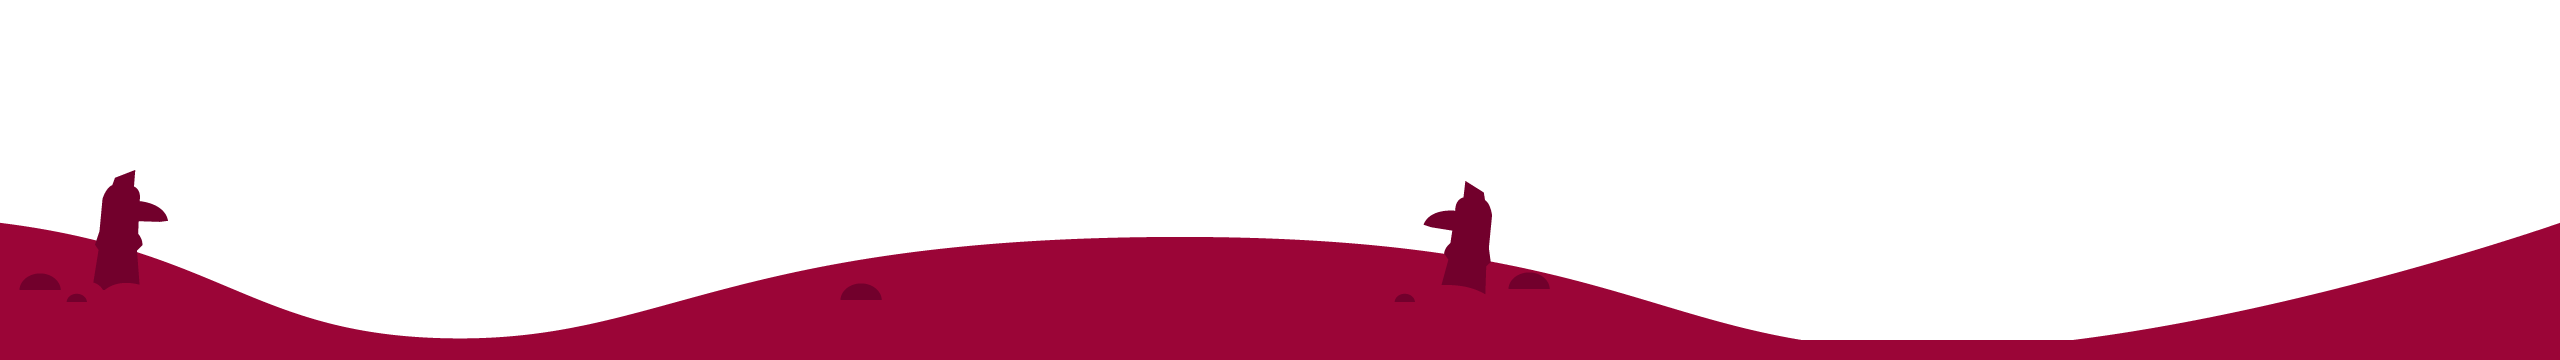
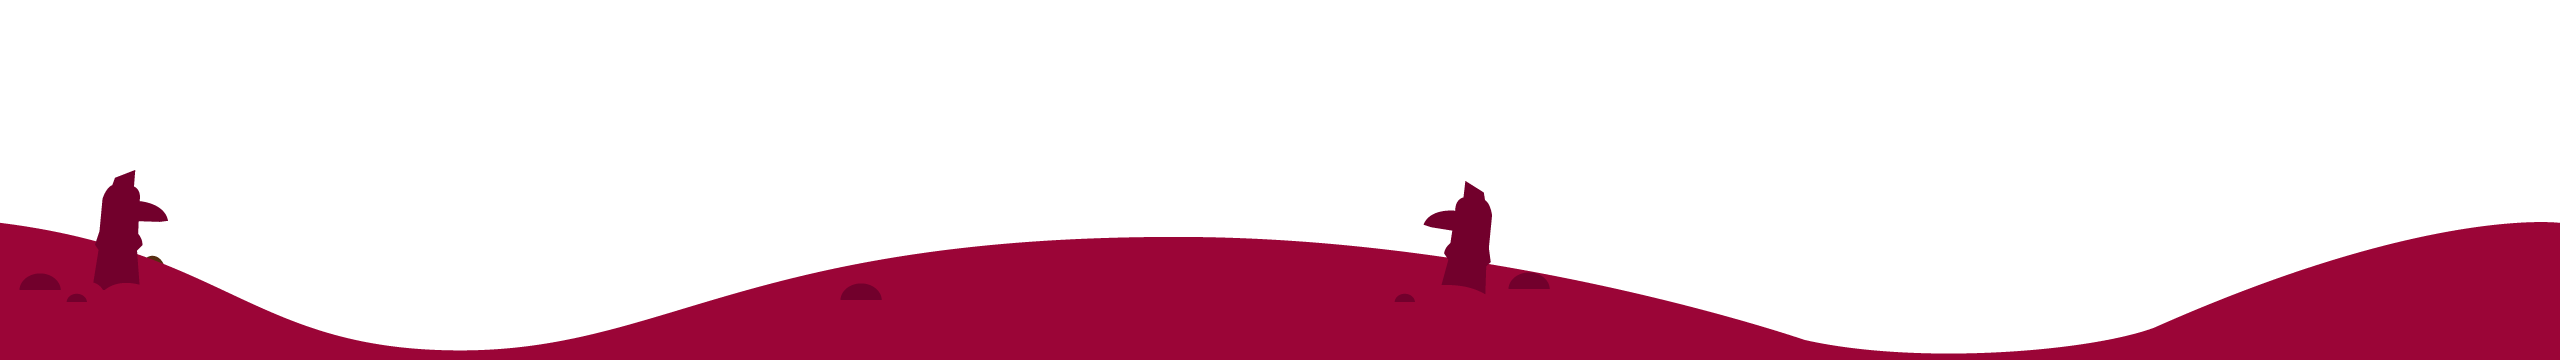
Polished object spawner

diff --git a/stomp/src/js/game/objects/background/BackgroundHandler.js b/stomp/src/js/game/objects/background/BackgroundHandler.js
@@ -30,18 +30,18 @@ BackgroundHandler.prototype.initialize = function()
 BackgroundHandler.prototype.switchToTheme = function(theme, instant)
 {
     var layers = [];
-    layers.push(new BackgroundLayer(theme.layers[0], 1.0 / 5 * theme.moveSpeed));
-    layers.push(new BackgroundLayer(theme.layers[1], 2.5 / 5 * theme.moveSpeed));
-    layers.push(new BackgroundLayer(theme.layers[2], theme.moveSpeed));
+    layers.push(new BackgroundLayer(theme.layers[0], 0.25));
+    layers.push(new BackgroundLayer(theme.layers[1], 0.5));
+    layers.push(new BackgroundLayer(theme.layers[2], 1.0));
 
-    for(var i = 0; i < this.layers.length; i++)
+    for(var i = 0; i < layers.length; i++)
     {
-        this.layers[i].speed = layers[i].speed;
+        layers[i].x -= this.x;
+        layers[i].backgroundHandler = this;
     }
 
     this.nextLayerSwitch = theme.switchAtScore;
-
-    this.world.objectHandler.moveSpeed = theme.moveSpeed;
+    this.world.objectHandler.gotoSpeed = theme.moveSpeed;
 
     if(instant == true)
     {
@@ -51,11 +51,6 @@ BackgroundHandler.prototype.switchToTheme = function(theme, instant)
     {
         this.switchLayersX = Align.width + 50;
         this.switchingLayers = true;
-
-        for(var i = 0; i < layers.length; i++)
-        {
-            layers[i].x -= this.x;
-        }
 
         this.switchLayers = layers;
     }
@@ -123,7 +118,7 @@ BackgroundHandler.prototype.onPlayerDead = function()
     if(!this.backgroundColor.manualOverride)
     {
         this.timer = 0;
-        if(this.fails < 7)
+        if(this.fails < 3)
         {
             this.fails++;
             this.checkBackground();
@@ -151,16 +146,12 @@ BackgroundHandler.prototype.checkBackground = function()
     switch(this.fails)
     {
         case 0:
-        case 1:
             this.backgroundColor.greenLayer();
             break;
-        case 2:
-        case 3:
-        case 4:
+        case 1:
             this.backgroundColor.orangeLayer();
             break;
-        case 5:
-        case 6:
+        case 2:
             this.backgroundColor.redLayer();
             break;
     }

diff --git a/stomp/src/js/game/objects/ObstacleSpawner.js b/stomp/src/js/game/objects/ObstacleSpawner.js
@@ -5,7 +5,7 @@
 ObstacleSpawner = function()
 {
     this.curTick = 0;
-    this.nextSpawn = 100 + parseInt(Math.random() * 100);
+    this.nextSpawn = 0;
 };
 
 ObstacleSpawner.prototype.initialize = function()
@@ -16,16 +16,20 @@ ObstacleSpawner.prototype.initialize = function()
 ObstacleSpawner.prototype.spawn = function()
 {
     this.curTick = 0;
-    this.nextSpawn = 100 + parseInt(Math.random() * 100);
 
     var obstacle = undefined;
 
-    if(this.sharedSpawnOptions.canSpawnBigObstacle() == true)
+    this.nextSpawn = 0;
+
+    if(this.sharedSpawnOptions.canSpawnBigObstacle() == true && this.themeHandler.curTheme.bigObject != undefined)
     {
-        var r = Math.random() * 5;
+        var r = Math.random() * 3;
         if(r <= 1)
         {
             obstacle = new this.themeHandler.curTheme.bigObject(this.objectHandler.world.dir);
+            obstacle.x += (25 * this.objectHandler.moveSpeed) + 200;
+            this.nextSpawn += 1200 / this.objectHandler.moveSpeed;
+            this.objectHandler.world.otherWorld.objectHandler.obstacleSpawner.nextSpawn += 900 / this.objectHandler.moveSpeed;
             this.sharedSpawnOptions.onSpawnBigObstacle();
         }
     }
@@ -35,12 +39,16 @@ ObstacleSpawner.prototype.spawn = function()
         obstacle = new this.themeHandler.curTheme.smallObject(this.objectHandler.world.dir);
     }
 
+    this.nextSpawn += ((obstacle.width) / this.objectHandler.moveSpeed) + 50;
+
+    this.nextSpawn += parseInt(Math.random() * 50);
+
     this.objectHandler.addObstacle(obstacle);
 };
 
 ObstacleSpawner.prototype.tick = function()
 {
-    if(this.objectHandler.canSpawnItems == true)
+    if(this.objectHandler.canSpawnItems == true && this.objectHandler.themeHandler.curTheme.switchAtScore - 20 > this.objectHandler.world.gameHandler.score && this.objectHandler.themeHandler.curTheme.startAtScore + 20 < this.objectHandler.world.gameHandler.score)
     {
         this.curTick++;
     }

diff --git a/stomp/src/js/Files.js b/stomp/src/js/Files.js
@@ -40,7 +40,7 @@ Files.PIC_GAME_MENU_BUTTON_HELP = "Assets/Menu/btn_Hoofdscherm.png";
 Files.PIC_GAME_MENU_BUTTON_BACK = "Assets/Menu/btn_Doorgaan.png";
 Files.PIC_GAME_MENU_BUTTON_TRYAGAIN = "Assets/Menu/btn_Opnieuw.png";
 
-Files.PIC_GAME_BACKGROUND_GREEN = "Assets/Game/Themes/BG_colors/Green.png";
+Files.PIC_GAME_BACKGROUND_GREEN = "Assets/Game/Themes/BG_colors/Greentest.png";
 Files.PIC_GAME_BACKGROUND_ORANGE = "Assets/Game/Themes/BG_colors/Orange.png";
 Files.PIC_GAME_BACKGROUND_RED = "Assets/Game/Themes/BG_colors/Red.png";
 
@@ -69,11 +69,7 @@ Files.PIC_GAME_THEME05_BACKGROUND_03 = "Assets/Game/Themes/Theme_05/bg_03.png";
 Files.PIC_GAME_THEME06_BACKGROUND_01 = "Assets/Game/Themes/Theme_06/bg_1.png";
 Files.PIC_GAME_THEME06_BACKGROUND_02 = "Assets/Game/Themes/Theme_06/bg_2.png";
 Files.PIC_GAME_THEME06_BACKGROUND_03 = "Assets/Game/Themes/Theme_06/bg_3.png";
-/*
-Files.PIC_GAME_THEME07_BACKGROUND_01 = "Assets/Game/Themes/Theme_07/bg_1.png";
-Files.PIC_GAME_THEME07_BACKGROUND_02 = "Assets/Game/Themes/Theme_07/bg_2.png";
-Files.PIC_GAME_THEME07_BACKGROUND_03 = "Assets/Game/Themes/Theme_07/bg_3.png";
-*/
+
 Files.PIC_GAME_BUTTON_JUMP = "Assets/Game/wips_Jump.png";
 Files.PIC_GAME_BUTTON_BACK = "Assets/Game/Pause.png";
 
@@ -86,6 +82,7 @@ Files.PIC_GAME_OBJECT_GROUND_STOMP      = "Assets/Game/Objects/grond_animatie.pn
 Files.PIC_GAME_OBJECT_PLAYER = "Assets/Game/Objects/character_run.png";
 Files.PIC_GAME_OBJECT_PLAYER_JUMP = "Assets/Game/Objects/character_jump.png";
 
+Files.PIC_GAME_OBJECT_OBSTACLESMALLXXS = "Assets/Game/Objects/obstakel_xxs.png";
 Files.PIC_GAME_OBJECT_OBSTACLESMALLXS = "Assets/Game/Objects/objects_xs.png";
 Files.PIC_GAME_OBJECT_OBSTACLEBIGXS = "Assets/Game/Objects/object_xsl.png";
 

diff --git a/stomp/src/js/game/objects/obstacles/SmallObstacleXXS.js b/stomp/src/js/game/objects/obstacles/SmallObstacleXXS.js
@@ -1,0 +1,46 @@
+/**
+ * Created by Jelle on 6/4/2014.
+ */
+
+SmallObstacleXXS = function()
+{
+    this.remove = false;
+
+    this.texture = Files.PIC_GAME_OBJECT_OBSTACLESMALLXXS;
+
+    this.width = this.texture.width;
+    this.height = this.texture.height;
+
+    this.x = Align.width;
+    this.y = (Align.height / 2) - (this.height + 20);
+
+    this.collisionContainer = new CollisionContainer();
+    this.collisionContainer.addBox(5, this.height / 2, 45, this.height / 2); // medium left
+    this.collisionContainer.addBox(this.width - 50, this.height / 2, 45, this.height / 2); // medium right
+    this.collisionContainer.addBox(20, (this.height / 2) - 20, 30, 20); // small center left
+    this.collisionContainer.addBox(this.width - 50, (this.height / 2) - 20, 30, 20); // small center right
+    this.collisionContainer.addBox(50, 0, this.width - 100, this.height); // long middle
+
+    this.collisionContainer.owner = this;
+    this.collisionContainer.initialize();
+};
+
+SmallObstacleXXS.prototype.onPlayerCollision = function(player)
+{
+    this.collisionContainer.isColliding = true;
+    player.onCollision();
+};
+
+SmallObstacleXXS.prototype.tick = function()
+{
+    this.x -= this.objectHandler.moveSpeed;
+    if(this.x < 0 - this.width)
+    {
+        this.remove = true;
+    }
+};
+
+SmallObstacleXXS.prototype.draw = function(gfx)
+{
+    gfx.drawTexture(this.texture, this.x, this.y, this.width, this.height);
+};

diff --git a/stomp/src/js/game/ThemeHandler.js b/stomp/src/js/game/ThemeHandler.js
@@ -5,11 +5,11 @@
 ThemeHandler = function()
 {
     this.themes = [];
-    this.addTheme("THEME01", SmallObstacleXS, BigObstacleXS, 50, 5);
-    this.addTheme("THEME02", SmallObstacleXS, BigObstacleXS, 170, 7);
-    this.addTheme("THEME03", SmallObstacle, BigObstacle, 290, 9);
-    this.addTheme("THEME04", SmallObstacle, BigObstacle, 410, 11);
-    this.addTheme("THEME05", SmallObstacle, BigObstacle, 530, 13);
+    this.addTheme("THEME01", SmallObstacleXXS, undefined, 100, 5);
+    this.addTheme("THEME02", SmallObstacleXS, BigObstacleXS, 1000, 7);
+    this.addTheme("THEME03", SmallObstacle, BigObstacle, 2000, 9);
+    this.addTheme("THEME04", SmallObstacle, BigObstacle, 3000, 11);
+    this.addTheme("THEME05", SmallObstacle, BigObstacle, 5000, 13);
     this.addTheme("THEME06", SmallObstacle, BigObstacle, -1, 15);
     this.curTheme = this.themes[0];
     this.curThemeIndex = 1;
@@ -26,6 +26,15 @@ ThemeHandler.prototype.addTheme = function(themeName, smallObject, bigObject, sw
     theme.smallObject = smallObject;
     theme.bigObject = bigObject;
     theme.switchAtScore = switchAtScore;
+    if(this.themes.length == 0)
+    {
+        theme.startAtScore = 0;
+    }
+    else
+    {
+        theme.startAtScore = this.themes[this.themes.length - 1].switchAtScore;
+    }
+
     theme.moveSpeed = moveSpeed;
 
     this.themes.push(theme);

diff --git a/stomp/src/js/game/objects/Player.js b/stomp/src/js/game/objects/Player.js
@@ -81,12 +81,11 @@ Player.prototype.tryJump = function()
 
 Player.prototype.tryStomp = function()
 {
-    if(this.y == this.groundy) //if(this.hasCollided == false && this.y == this.groundy)
+    if(this.y == this.groundy)
     {
         this.speedy = -25;
         this.showJumpAnimation = true;
         this.jumpAnimation.reset();
-        //this.stompGroundAnimation.reset();
         this.animationHandler.addGroundStomp(this.x - this.width / 2, this.groundy + 65);
     }
 };
@@ -95,14 +94,11 @@ Player.prototype.onCollision = function()
 {
     if(this.hasCollided == false)
     {
-        //this.collisionContainer.isColliding = true;
         this.hasCollided = true;
-        //this.shouldStomp = false;
         this.objectHandler.world.backgroundHandler.onPlayerDead();
 
         this.isImmuneFor = 180;
         this.objectHandler.canSpawnItems = false;
-        //this.objectHandler.obstacleSpawner.nextSpawn = ((Align.width / 2) / 10) + 100;
         SFX.playSound(Files.SND_GAME_PLAYER_DEATH);
     }
 };

diff --git a/stomp/src/js/game/objects/World.js b/stomp/src/js/game/objects/World.js
@@ -42,8 +42,8 @@ World = function(dir)
     var screenPosX = (Align.width / 2) * (dir + 1);
     var screenPosY = -(Align.height / 2) * (dir - 1);
 
-    var objPosX = (-(button.width / 2) - 45) * (dir);
-    var objPosY = ((button.height / 2) + 45) * (dir);
+    var objPosX = (-(button.width / 2)) * (dir);
+    var objPosY = ((button.height / 2)) * (dir);
 
     button.setPosition(screenPosX + objPosX, screenPosY + objPosY);
 
@@ -109,7 +109,7 @@ World.prototype.draw = function(gfx)
     this.backgroundHandler.draw(gfx);
     this.objectHandler.draw(gfx);
 
-    gfx.drawString("" + parseInt(this.gameHandler.score) + "m", 50, 90, "#FFF", "80pt " + Files.FNT_DEFAULT_FONT);
+    gfx.drawString("" + parseInt(this.gameHandler.score) + "m", 50, 120, "#FFF", "80pt " + Files.FNT_DEFAULT_FONT);
 
     gfx.gfx.restore();
 

diff --git a/stomp/src/js/game/objects/ObjectHandler.js b/stomp/src/js/game/objects/ObjectHandler.js
@@ -8,6 +8,8 @@ ObjectHandler = function(world)
 
     this.canSpawnItems = true;
     this.moveSpeed = 5;
+    this.curMoveSpeed = this.moveSpeed;
+    this.gotoSpeed = this.moveSpeed;
 
     // obstacles
     this.obstacleSpawner = new ObstacleSpawner();
@@ -44,6 +46,17 @@ ObjectHandler.prototype.onPlayerDead = function()
 
 ObjectHandler.prototype.tick = function()
 {
+    if(this.curMoveSpeed < this.gotoSpeed)
+    {
+        this.curMoveSpeed += 0.01;
+        if(this.curMoveSpeed >= this.gotoSpeed)
+        {
+            this.curMoveSpeed = this.gotoSpeed;
+        }
+
+        this.moveSpeed = parseInt(this.curMoveSpeed);
+    }
+
     this.obstacleSpawner.tick();
 
     for(var i = 0; i < this.obstacles.length; i++)

diff --git a/stomp/src/js/game/objects/background/BackgroundLayer.js b/stomp/src/js/game/objects/background/BackgroundLayer.js
@@ -5,10 +5,11 @@
 BackgroundLayer = function(textureObj, speed)
 {
     this.texture = textureObj;
-    this.speed = speed;
 
     this.width = Align.width * 2;
     this.height = Align.height / 2;
+
+    this.speedRatio = speed;
 
     this.x = 0;
     this.cratio = this.width / this.texture.width;
@@ -19,7 +20,7 @@ BackgroundLayer = function(textureObj, speed)
 
 BackgroundLayer.prototype.tick = function()
 {
-    this.x -= this.speed;
+    this.x -= this.backgroundHandler.world.objectHandler.moveSpeed * this.speedRatio;
     this.x = this.x % this.width;
 };
 

diff --git a/stomp/src/js/game/objects/SharedSpawnOptions.js b/stomp/src/js/game/objects/SharedSpawnOptions.js
@@ -4,7 +4,7 @@
 
 SharedSpawnOptions = function()
 {
-    this.lastBigObstacle = 200;
+    this.lastBigObstacle = 400;
 };
 
 SharedSpawnOptions.prototype.canSpawnBigObstacle = function()
@@ -14,7 +14,7 @@ SharedSpawnOptions.prototype.canSpawnBigObstacle = function()
 
 SharedSpawnOptions.prototype.onSpawnBigObstacle = function()
 {
-    this.lastBigObstacle = 200;
+    this.lastBigObstacle = 400;
 };
 
 SharedSpawnOptions.prototype.tick = function()

diff --git a/stomp/src/js/game/GameHandler.js b/stomp/src/js/game/GameHandler.js
@@ -85,7 +85,7 @@ GameHandler.prototype.tick = function()
 
         this.score += 0.254; // 55 km/h / 3.6 = 15.27 m/s / 60fps = 0.254 m/tick
 
-        if(this.world1.backgroundHandler.fails > 6 || this.world2.backgroundHandler.fails > 6)
+        if(this.world1.backgroundHandler.fails > 2 || this.world2.backgroundHandler.fails > 2)
         {
             this.endCurrentGame();
         }
